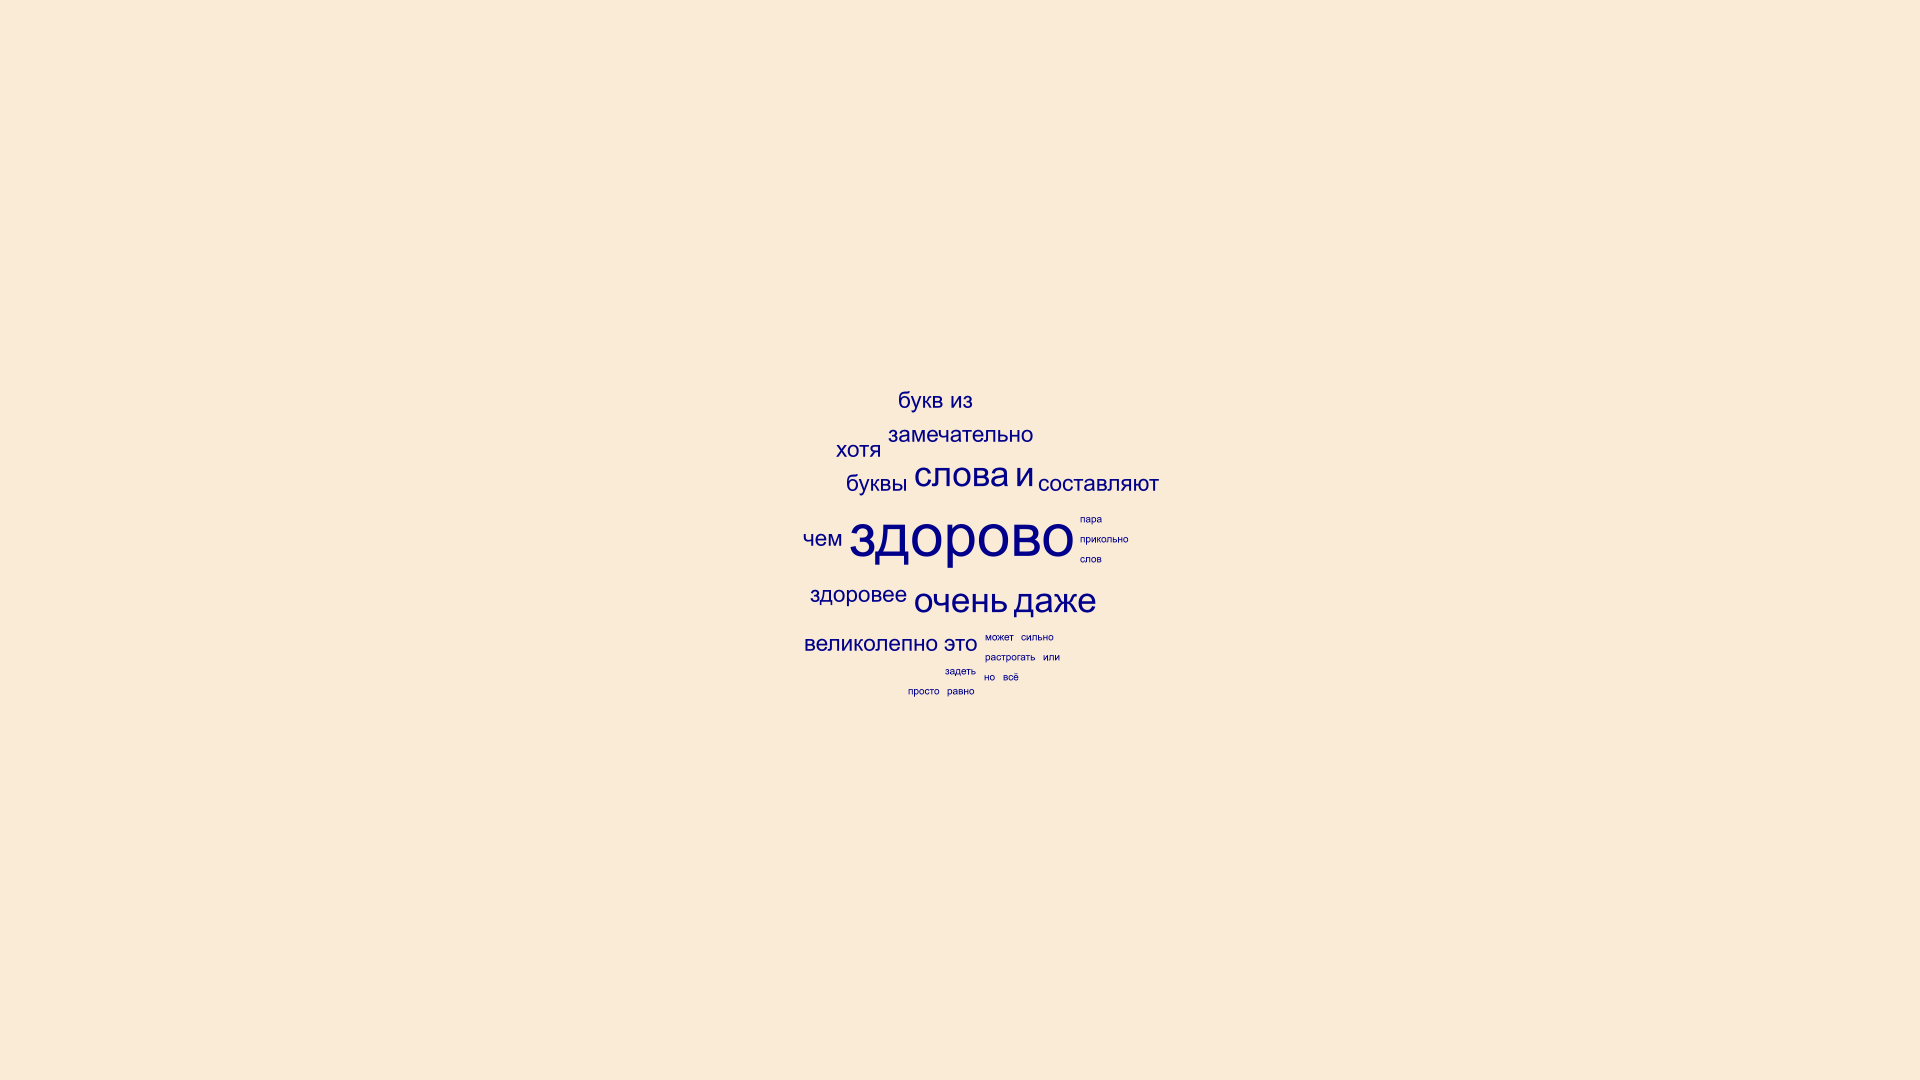
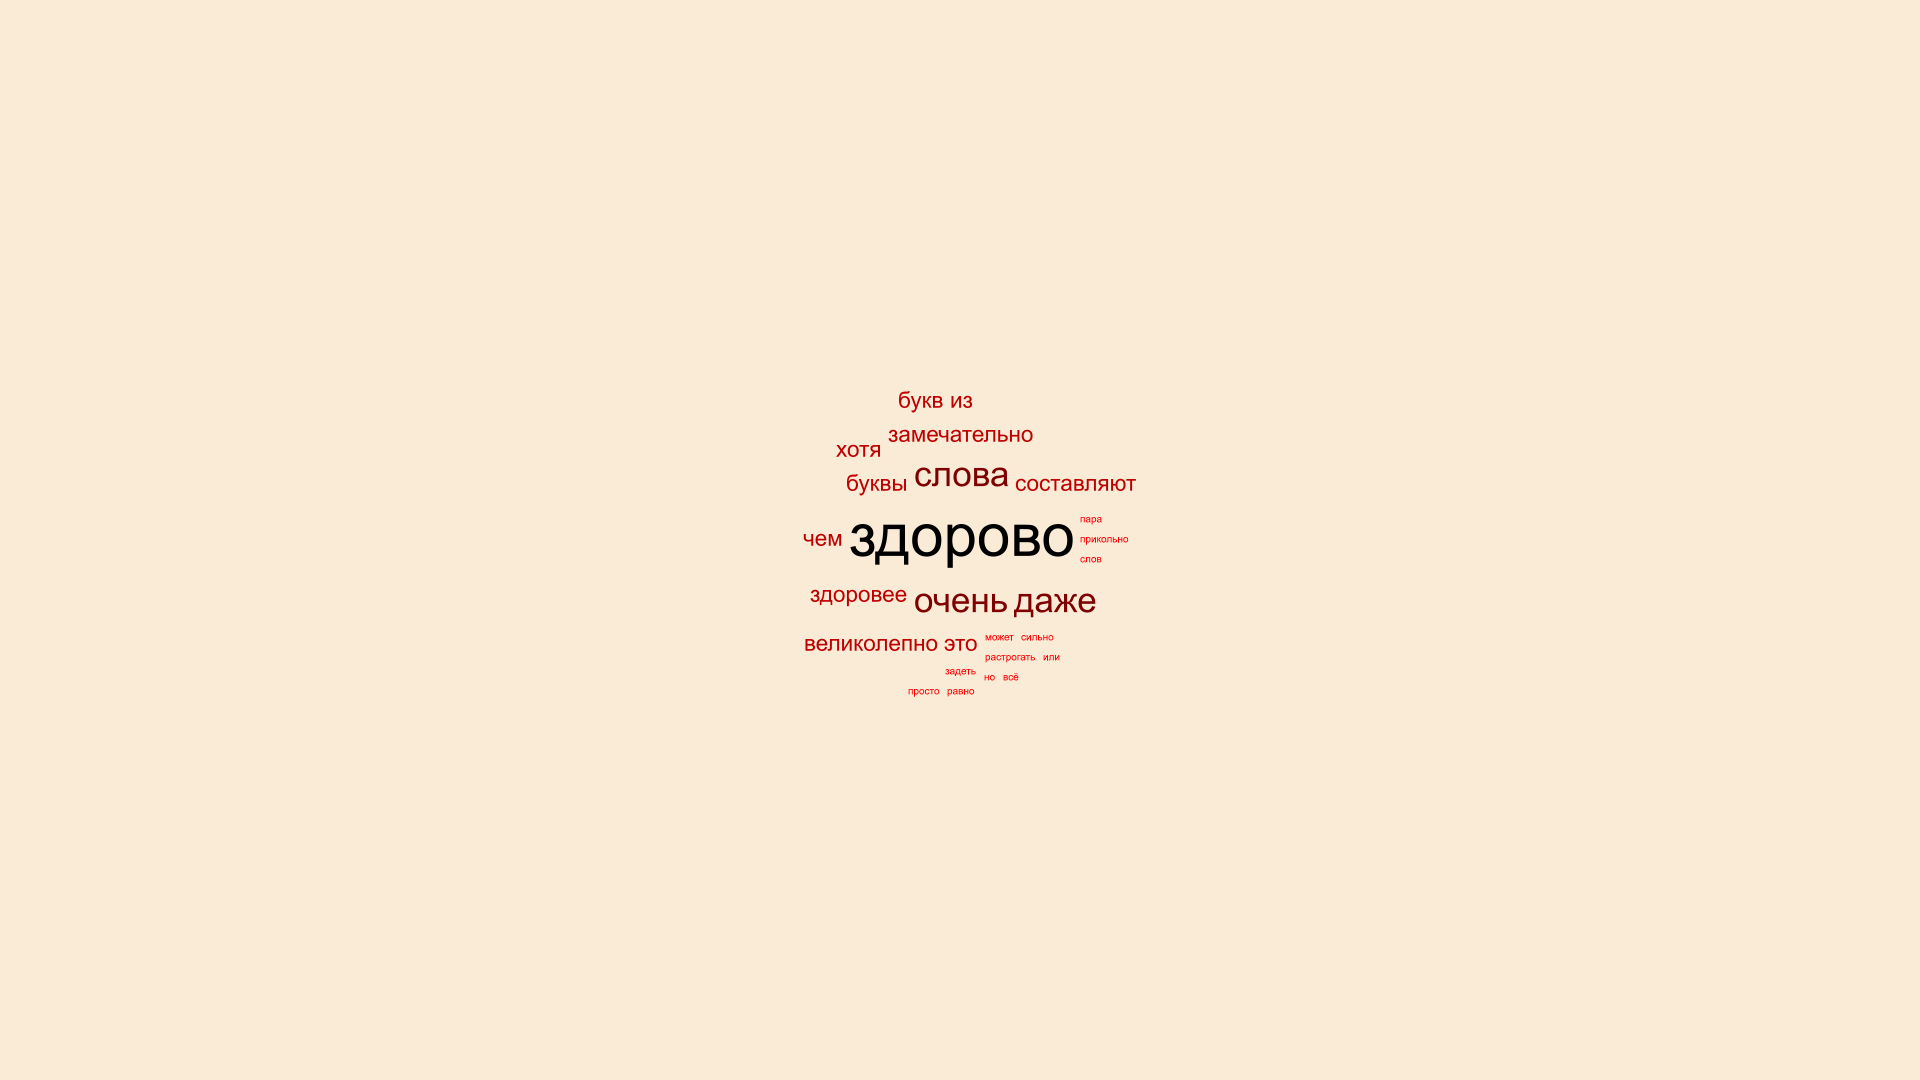
Добавил вариации раскрасок слов - градиент по частотности, единый цвет и цвета из палитры

Changed region(s): [[0.4062, 0.55, 0.5625, 0.6417], [0.4375, 0.3667, 0.5938, 0.4583], [0.4062, 0.4889, 0.5938, 0.5194]]

diff --git a/TagCloud.Client/DI/TagCloudModule.cs b/TagCloud.Client/DI/TagCloudModule.cs
@@ -1,6 +1,7 @@
 using Autofac;
 using SixLabors.ImageSharp;
 using TagCloud.Colors;
+using TagCloud.Colors.Factories;
 using TagCloud.Layouters;
 using TagCloud.Sizing;
 using TagCloud.Visualizers;
@@ -45,8 +46,21 @@ public class TagCloudModule(string? boringWordsPath) : Module
         builder.RegisterType<CircularCloudLayouterFactory>()
             .As<ICircularCloudLayouterFactory>()
             .SingleInstance();
-        builder.RegisterInstance(new WordColorizer(Color.DarkBlue))
-            .As<IWordColorizer>();
+        builder.RegisterType<WordColorizerFactory>()
+            .As<IWordColorizerFactory>()
+            .SingleInstance();
+        builder.RegisterType<WordSingleColorizerCreator>()
+            .Keyed<IWordColorizerCreator>("single")
+            .SingleInstance();
+        builder.RegisterType<WordPaletteColorizerCreator>()
+            .Keyed<IWordColorizerCreator>("palette")
+            .SingleInstance();
+        builder.RegisterType<WordGradientColorizerCreator>()
+            .Keyed<IWordColorizerCreator>("gradient")
+            .SingleInstance();
+        builder.RegisterType<HexColorParser>()
+            .As<IColorParser>()
+            .SingleInstance();
         builder.RegisterInstance(new TagCloudVisualizer(Color.AntiqueWhite))
             .As<ITagCloudVisualizer>();
         builder.RegisterType<TagCloudGenerator>()

diff --git a/TagCloud/TagCloudGenerator.cs b/TagCloud/TagCloudGenerator.cs
@@ -1,5 +1,6 @@
 using SixLabors.ImageSharp;
 using TagCloud.Colors;
+using TagCloud.Colors.Factories;
 using TagCloud.Layouters;
 using TagCloud.Options;
 using TagCloud.Sizing;
@@ -15,13 +16,14 @@ public class TagCloudGenerator(IWordsProviderResolver wordsProviderResolver,
     IFontSizeCalculator fontSizeCalculator,
     ITextTagSizeCalculator tagSizeCalculator,
     ICircularCloudLayouterFactory layouterFactory,
-    IWordColorizer colorizer,
+    IWordColorizerFactory colorizerFactory,
     ITagCloudVisualizer visualizer) : ITagCloudGenerator
 {
     public void Generate(TagCloudOptions options)
     {
         var canvasSize = new Size(options.ImageWidth, options.ImageHeight);
-
+        
+        var colorizer = colorizerFactory.Create(options);
         var words = wordsProviderResolver.ReadWords(options.InputFilePath);
         var processed = wordProcessor.Process(words);
         var frequencies = frequencyAnalyzer.CalculateFrequencies(processed);

diff --git a/TagCloud/Colors/WordGradientColorizer.cs b/TagCloud/Colors/WordGradientColorizer.cs
@@ -1,0 +1,28 @@
+using SixLabors.ImageSharp;
+using SixLabors.ImageSharp.PixelFormats;
+using TagCloud.WordsProcessing;
+
+namespace TagCloud.Colors;
+
+public class WordGradientColorizer(Color gradientFrom, Color gradientTo) : IWordColorizer
+{
+    public Color Colorize(TextTag tag) =>
+        Lerp(gradientFrom, gradientTo, tag.NormalizedFrequency);
+    
+    private Color Lerp(Color from, Color to, float frequency)
+    {
+        var fromRgb = from.ToPixel<Rgba32>();
+        var toRgb = to.ToPixel<Rgba32>();
+
+        return Color.FromRgba(
+            LerpChannel(fromRgb.R, toRgb.R, frequency),
+            LerpChannel(fromRgb.G, toRgb.G, frequency),
+            LerpChannel(fromRgb.B, toRgb.B, frequency),
+            255);
+    }
+
+    private byte LerpChannel(byte from, byte to, float frequency)
+    {
+        return (byte)(from + (to - from) * frequency);
+    }
+}

diff --git a/TagCloud/Sizing/FontSizeCalculator.cs b/TagCloud/Sizing/FontSizeCalculator.cs
@@ -16,10 +16,10 @@ public class FontSizeCalculator : IFontSizeCalculator
             {
                 var normalizedFrequency = (float)(word.Count - minCount) / (maxCount - minCount);
                 var size = minSize + normalizedFrequency * (maxSize - minSize);
-                return new TextTag(word.Word, word.Count, size);
+                return new TextTag(word.Word, word.Count, size, normalizedFrequency);
             });
         
         var singleSize = (minSize + maxSize) / 2f;
-        return wordFrequencies.Select(f => new TextTag(f.Word, f.Count, singleSize));
+        return wordFrequencies.Select(f => new TextTag(f.Word, f.Count, singleSize, 0.5f));
     }
 }

diff --git a/TagCloud/Colors/Factories/WordGradientColorizerCreator.cs b/TagCloud/Colors/Factories/WordGradientColorizerCreator.cs
@@ -1,0 +1,14 @@
+using TagCloud.Options;
+
+namespace TagCloud.Colors.Factories;
+
+public class WordGradientColorizerCreator(IColorParser parser) : IWordColorizerCreator
+{
+    public IWordColorizer Create(TagCloudOptions options)
+    {
+        var colorFrom = parser.Parse(options.GradientFrom ?? "#ff0000");
+        var colorTo = parser.Parse(options.GradientTo ?? "#000000");
+        
+        return new WordGradientColorizer(colorFrom, colorTo);
+    }
+}

diff --git a/TagCloud/Colors/HexColorParser.cs b/TagCloud/Colors/HexColorParser.cs
@@ -1,0 +1,17 @@
+using SixLabors.ImageSharp;
+
+namespace TagCloud.Colors;
+
+public class HexColorParser : IColorParser
+{
+    public Color Parse(string color)
+    {
+        if (!Color.TryParse(color, out Color colorResult))
+            throw new ArgumentException($"Invalid color {color}");
+        
+        return colorResult;
+    }
+
+    public List<Color> ParseMany(string colors) =>
+        colors.Split(',').Select(Parse).ToList();
+}

diff --git a/TagCloud/Colors/Factories/WordPaletteColorizerCreator.cs b/TagCloud/Colors/Factories/WordPaletteColorizerCreator.cs
@@ -1,0 +1,14 @@
+using TagCloud.Options;
+
+namespace TagCloud.Colors.Factories;
+
+public class WordPaletteColorizerCreator(IColorParser parser) : IWordColorizerCreator
+{
+    public IWordColorizer Create(TagCloudOptions options)
+    {
+        var colorsText = options.Colors ?? "#cd5b45,#c51d34,#ffb28b,#cdb891";
+        var colors = parser.ParseMany(colorsText);
+        
+        return new WordPaletteColorizer(colors);
+    }
+}

diff --git a/TagCloud/Colors/WordPaletteColorizer.cs b/TagCloud/Colors/WordPaletteColorizer.cs
@@ -1,0 +1,16 @@
+using SixLabors.ImageSharp;
+using TagCloud.WordsProcessing;
+
+namespace TagCloud.Colors;
+
+public class WordPaletteColorizer(IEnumerable<Color> palette) : IWordColorizer
+{
+    private readonly List<Color> _palette = palette.ToList();
+    private int _index;
+    public Color Colorize(TextTag tag)
+    {
+        var color = _palette[_index % _palette.Count];
+        _index++;
+        return color;
+    }
+}

diff --git a/TagCloud/Colors/Factories/WordSingleColorizerCreator.cs b/TagCloud/Colors/Factories/WordSingleColorizerCreator.cs
@@ -1,0 +1,14 @@
+using TagCloud.Options;
+
+namespace TagCloud.Colors.Factories;
+
+public class WordSingleColorizerCreator(IColorParser parser) : IWordColorizerCreator
+{
+    public IWordColorizer Create(TagCloudOptions options)
+    {
+        var colorText = options.Colors ?? "#cd5b45";
+        var color = parser.Parse(colorText);
+        
+        return new WordSingleColorizer(color);
+    }
+}

diff --git a/TagCloud/Options/TagCloudOptions.cs b/TagCloud/Options/TagCloudOptions.cs
@@ -12,4 +12,9 @@ public class TagCloudOptions
     public string FontName { get; set; } = "Arial";
     public float MinFontSize { get; set; } = 10;
     public float MaxFontSize { get; set; } = 60;
+    
+    public string ColorizerName { get; set; } = "gradient";
+    public string? Colors { get; set; }
+    public string? GradientFrom { get; set; }
+    public string? GradientTo { get; set; }
 }

diff --git a/TagCloudTests/TagCloudVisualizerTests.cs b/TagCloudTests/TagCloudVisualizerTests.cs
@@ -28,7 +28,7 @@ public class TagCloudVisualizerTests
     {
         var items = new List<DrawnTag>
         {
-            new(new TextTag("Hello world!", 10, 30), new Rectangle(100, 100, 200, 100), Color.Black),
+            new(new TextTag("Hello world!", 10, 30, 0.5f), new Rectangle(100, 100, 200, 100), Color.Black),
         };
 
         var savePath =

diff --git a/TagCloud/Colors/Factories/WordColorizerFactory.cs b/TagCloud/Colors/Factories/WordColorizerFactory.cs
@@ -1,0 +1,10 @@
+using Autofac.Features.Indexed;
+using TagCloud.Options;
+
+namespace TagCloud.Colors.Factories;
+
+public class WordColorizerFactory(IIndex<string, IWordColorizerCreator> creators) : IWordColorizerFactory
+{
+    public IWordColorizer Create(TagCloudOptions options) =>
+        creators[options.ColorizerName].Create(options);
+}
